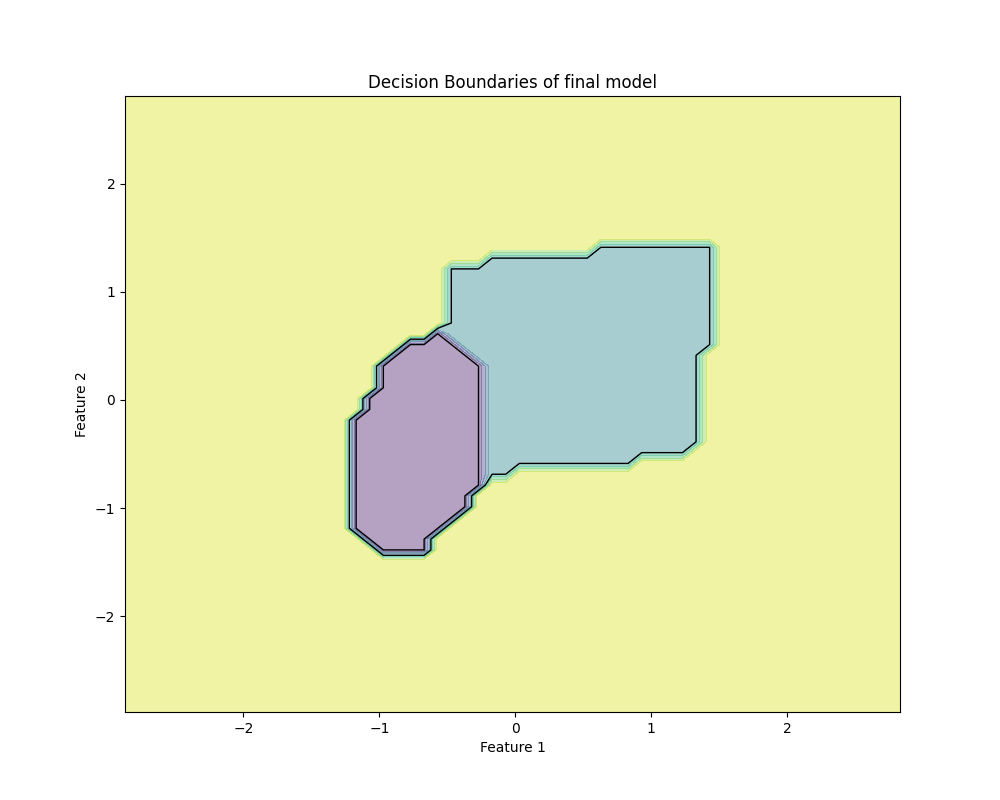
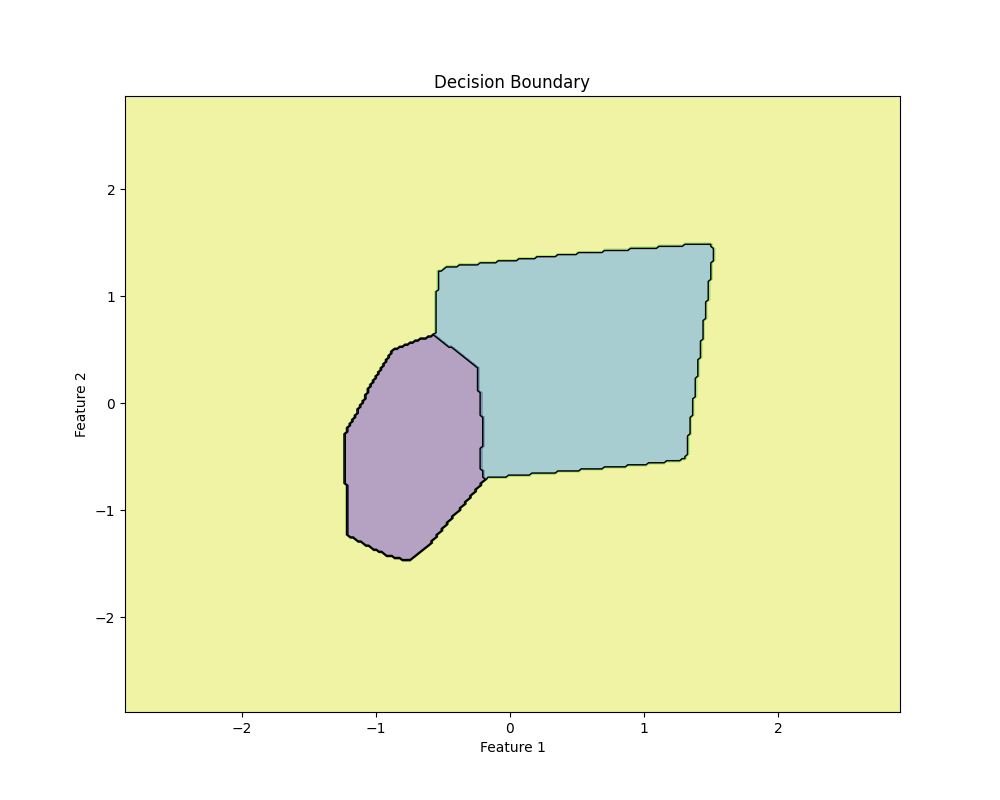
decision boundary plot

diff --git a/util.py b/util.py
@@ -13,37 +13,7 @@ import os
 import time
 import functools
 
-
-def plot_decision_boundary(model, inputs, labels, title, filename=None, show=True):
-    # Create a grid
-    x_min, x_max = inputs[0, :].min() - 1, inputs[0, :].max() + 1
-    y_min, y_max = inputs[1, :].min() - 1, inputs[1, :].max() + 1
-    xx, yy = np.meshgrid(np.arange(x_min, x_max, 0.1),
-                         np.arange(y_min, y_max, 0.1))
-
-    # Predict for each point in grid
-    grid_inputs = np.c_[xx.ravel(), yy.ravel()].T
-    _, Z = model.predict(grid_inputs)
-    Z = Z.reshape(xx.shape)
-
-    # Plot
-    plt.figure(figsize=(10, 8))
-    plt.contourf(xx, yy, Z, alpha=0.4, cmap='viridis')
-    scatter = plt.scatter(inputs[0, :], inputs[1, :], c=labels, s=20, edgecolor='k', cmap='viridis')
-    plt.xlabel('Feature 1')
-    plt.ylabel('Feature 2')
-    plt.title(title)
-    plt.colorbar(scatter, ticks=[0, 1, 2], label='Class (0=A, 1=B, 2=C)')
-
-    # Save or show plot
-    if filename:
-        plt.savefig(filename, bbox_inches='tight')
-    if show:
-        plt.show()
-    else:
-        plt.close()
-
-
+# another function to plot errors as the one already implemented was lagging
 def plot_val_errors(val_CEs,title, block=True):
     plt.plot(val_CEs, label="Validation Loss")
     plt.xlabel("Epochs")
@@ -69,7 +39,7 @@ def int2str_labels(int_labels):
     str_labels = np.array([label_map[label] for label in int_labels])
     return str_labels
 
-
+# generated function that plots confusion matrix
 def plot_confusion_matrix(y_true, y_pred, num_classes=3, normalize=True, 
                           filename=None, show=True, block=False):
     
@@ -342,46 +312,41 @@ def plot_dots(inputs, labels=None, predicted=None, test_inputs=None, test_labels
         plt.close()
 
 
-def plot_areas(model, inputs, labels=None, w=30, h=20, i_x=0, i_y=1, block=True):
-    plt.figure(4)
-    use_keypress()
-    plt.clf()
-    plt.gcf().canvas.manager.set_window_title('Decision areas')
+def plot_areas(model, inputs, labels=None, title="Decision Boundary", w=300, h=300, i_x=0, i_y=1, filename=None, show=True):
 
+    # Create a grid for plotting
+    x_min, x_max = inputs[i_x, :].min() - 1, inputs[i_x, :].max() + 1
+    y_min, y_max = inputs[i_y, :].min() - 1, inputs[i_y, :].max() + 1
+    xx, yy = np.meshgrid(np.linspace(x_min, x_max, w),
+                         np.linspace(y_min, y_max, h))
+
+    # Prepare input grid for model
     dim = inputs.shape[0]
-    data = np.zeros((dim, w*h))
+    data = np.tile(np.mean(inputs, axis=1, keepdims=True), (1, w * h))
+    data[i_x, :] = xx.ravel()
+    data[i_y, :] = yy.ravel()
 
-    # # "proper":
-    # X = np.linspace(*limits(inputs[i_x,:]), w)
-    # Y = np.linspace(*limits(inputs[i_y,:]), h)
-    # YY, XX = np.meshgrid(Y, X)
-    #
-    # for i in range(dim):
-    #     data[i,:] = np.mean(inputs[i,:])
-    # data[i_x,:] = XX.flat
-    # data[i_y,:] = YY.flat
-
-    X1 = np.linspace(*limits(inputs[0, :]), w)
-    Y1 = np.linspace(*limits(inputs[1, :]), h)
-    X2 = np.linspace(*limits(inputs[2, :]), w)
-    Y2 = np.linspace(*limits(inputs[3, :]), h)
-    YY1, XX1 = np.meshgrid(Y1, X1)
-    YY2, XX2 = np.meshgrid(Y2, X2)
-    data[0, :] = XX1.flat
-    data[1, :] = YY1.flat
-    data[2, :] = XX2.flat
-    data[3, :] = YY2.flat
-
+    # Predict on the grid
     outputs, *_ = model.predict(data)
-    assert outputs.shape[0] == model.dim_out,\
-           f'Outputs do not have correct shape, expected ({model.dim_out}, ?), got {outputs.shape}'
-    outputs = outputs.reshape((-1, w, h))
+    preds = np.argmax(outputs, axis=0).reshape(xx.shape)
 
-    outputs -= np.min(outputs, axis=0, keepdims=True)
-    outputs = np.exp(1*outputs)
-    outputs /= np.sum(outputs, axis=0, keepdims=True)
+    # Plot background and decision boundaries
+    plt.figure(figsize=(10, 8))
+    plt.contourf(xx, yy, preds, alpha=0.4, cmap='viridis')
+    plt.contour(xx, yy, preds, levels=np.unique(preds), colors='k', linewidths=1)
 
-    plt.imshow(outputs.T)
+    # Scatter original input data
+    if labels is not None:
+        plt.scatter(inputs[i_x, :], inputs[i_y, :], c=labels, s=20, edgecolor='k', cmap='viridis')
 
-    plt.tight_layout()
-    plt.show(block=block)
+    plt.xlabel(f'Feature {i_x + 1}')
+    plt.ylabel(f'Feature {i_y + 1}')
+    plt.title(title)
+
+    if filename:
+        plt.savefig(filename, bbox_inches='tight')
+    if show:
+        plt.show()
+    else:
+        plt.close()
+

diff --git a/classifier.py b/classifier.py
@@ -123,9 +123,7 @@ class MLPClassifier(MLP):
             if val_inputs is None or val_labels is None:
                 raise ValueError("Validation data must be provided for early stopping.")
         
-        #print(lr_schedule)
         lr_schedule_active = lr_schedule.get('decay', None) is not None
-        #print(f"lr_schedule_active: {lr_schedule_active}")
         
         if lr_schedule_active:
 
@@ -146,7 +144,6 @@ class MLPClassifier(MLP):
             }
             
             lr_params = lr_schedule.get('params', {})
-            #print(lr_schedule['decay'])
             decay_function = lr_schedule_mapping[lr_schedule['decay']]
 
         for ep in range(eps):
@@ -154,10 +151,7 @@ class MLPClassifier(MLP):
             RE = 0
 
             if lr_schedule_active:
-                #print("lr scheduling works...")
-                #print('povodna alfa:', alpha)
                 alpha = decay_function(ep, alpha, lr_params)
-                #print('nova alpha:', alpha)
 
             for idx in np.random.permutation(count):
                 x = inputs[:, idx]

diff --git a/main.py b/main.py
@@ -218,4 +218,4 @@ plot_confusion_matrix(test_labels, test_predicted, num_classes=3, block=False, f
 plot_dots(inputs = test_inputs, labels = int2str_labels(test_labels), block=False, filename='plots/test_data.png', show=show_graphs)
 plot_dots(inputs = inputs, labels = int2str_labels(labels), predicted = train_predicted, test_inputs=test_inputs, test_labels=int2str_labels(test_labels), test_predicted=test_predicted, block=False, filename='plots/train_data_predicted.png', show=show_graphs)
 plot_dots(inputs = None, test_inputs=test_inputs, test_labels=int2str_labels(test_labels), test_predicted=test_predicted, title='Test data only', block=False, filename='plots/test_data_predicted.png', show=show_graphs)
-plot_decision_boundary(model, test_inputs, test_labels, 'Decision Boundaries of final model', filename='plots/decision_boundary.png', show=show_graphs)
+plot_areas(model, test_inputs, test_labels, 'Decision Boundaries of final model', filename='plots/decision_boundary.png', show=show_graphs)

diff --git a/best_model.py b/best_model.py
@@ -2,7 +2,7 @@ import json
 import numpy as np
 from classifier import MLPClassifier
 import random
-from util import load_data, onehot_encode, int2str_labels, plot_errors, plot_dots, plot_confusion_matrix, plot_both_errors, plot_decision_boundary
+from util import load_data, onehot_encode, int2str_labels, plot_errors, plot_dots, plot_confusion_matrix, plot_both_errors, plot_areas
 
 random.seed(24)
 np.random.seed(24)
@@ -62,4 +62,4 @@ test_inputs, test_labels = load_data('data/2d.tst.dat')
 
 if best_params['normalize']:
     test_inputs = (test_inputs - mean) / std
-plot_decision_boundary(model, test_inputs, test_labels, 'Decision Boundaries of final model', show=True)
+plot_areas(model, test_inputs, test_labels)

diff --git a/mlp.py b/mlp.py
@@ -75,16 +75,12 @@ class MLP:
         d: single target vector (size=dim_out)
         """
         if softmax_plus_ce:
-            # Use simplified gradient for softmax + cross-entropy
             g_out = d - y
         else:
-        # Compute output layer gradient vector (dim_out,)
             g_out = (d - y) * self.df_out(b)
         
-        # Compute hidden layer gradient vector (dim_hid,), ignoring bias weights in W_out
         g_hid = (self.W_out[:, :-1].T @ g_out) * self.df_hid(a)
         
-        # Compute weight gradient matrices with outer products
         dW_out = np.outer(g_out, add_bias(h))
         dW_hid = np.outer(g_hid, add_bias(x))
 
